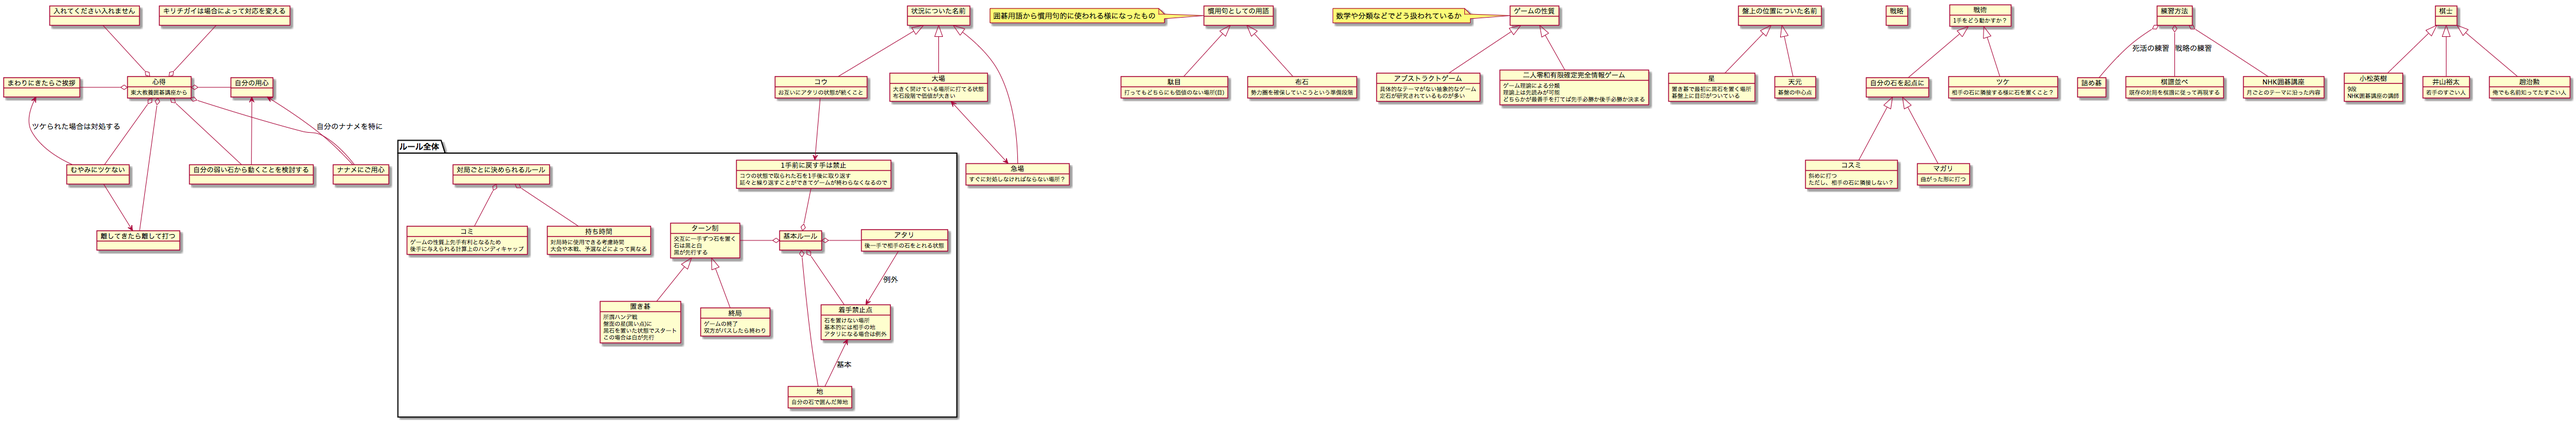
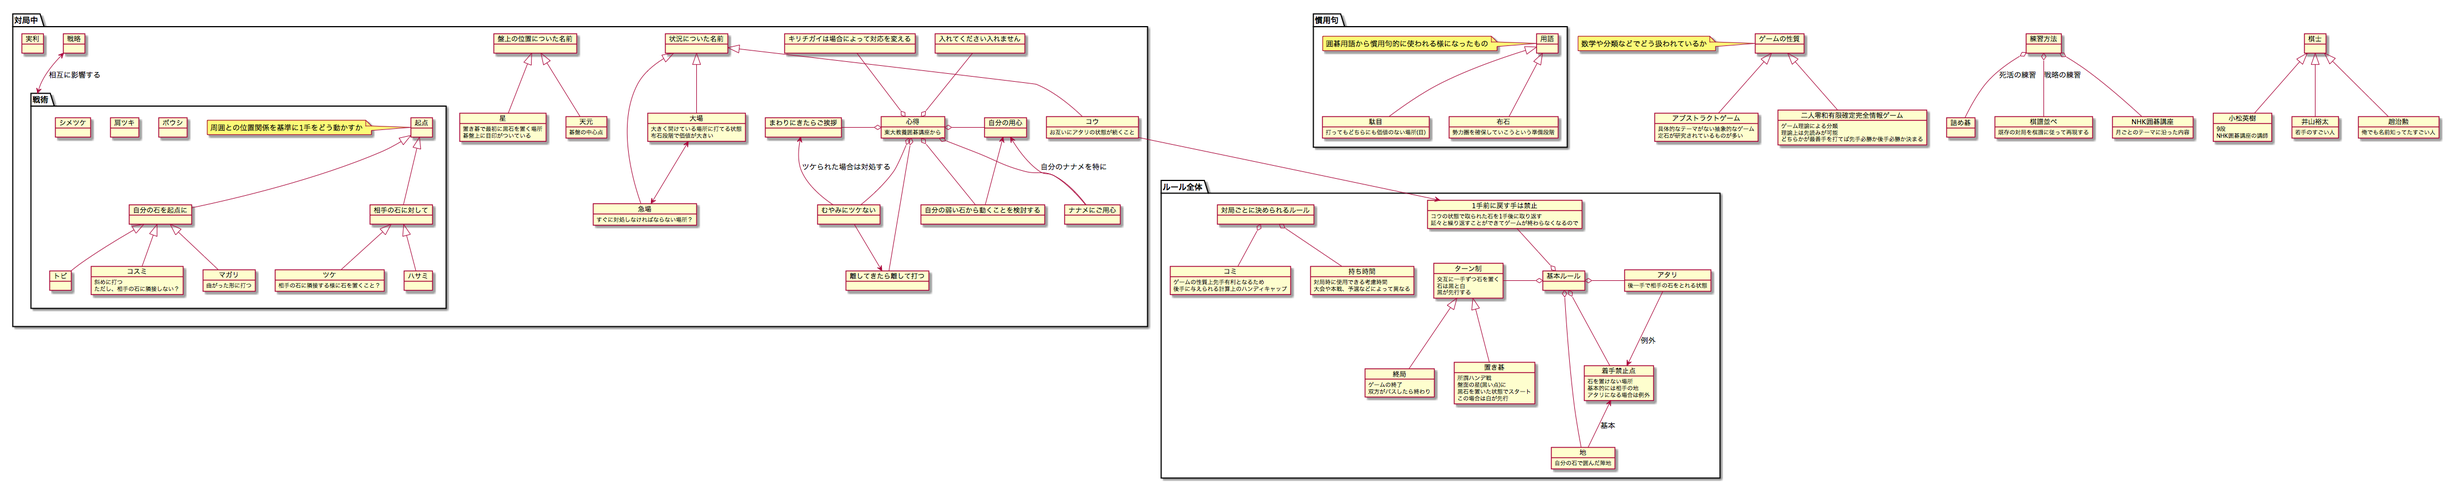
パッケージである程度境界を引いてみた。囲碁講座テキストから名詞を引き出してみた。

diff --git a/README.md b/README.md
@@ -15,3 +15,9 @@
 ルールについて絞り込んだ図はこちら。
 
 ![ルール_モデル図](rule/rule.png)
+
+## 対局時の心得
+
+東大教養囲碁講座から抜粋した対局時の心得をモデリングした図はこちら。
+
+![心得_モデル図](in_playing_a_game/guidlines.png)
